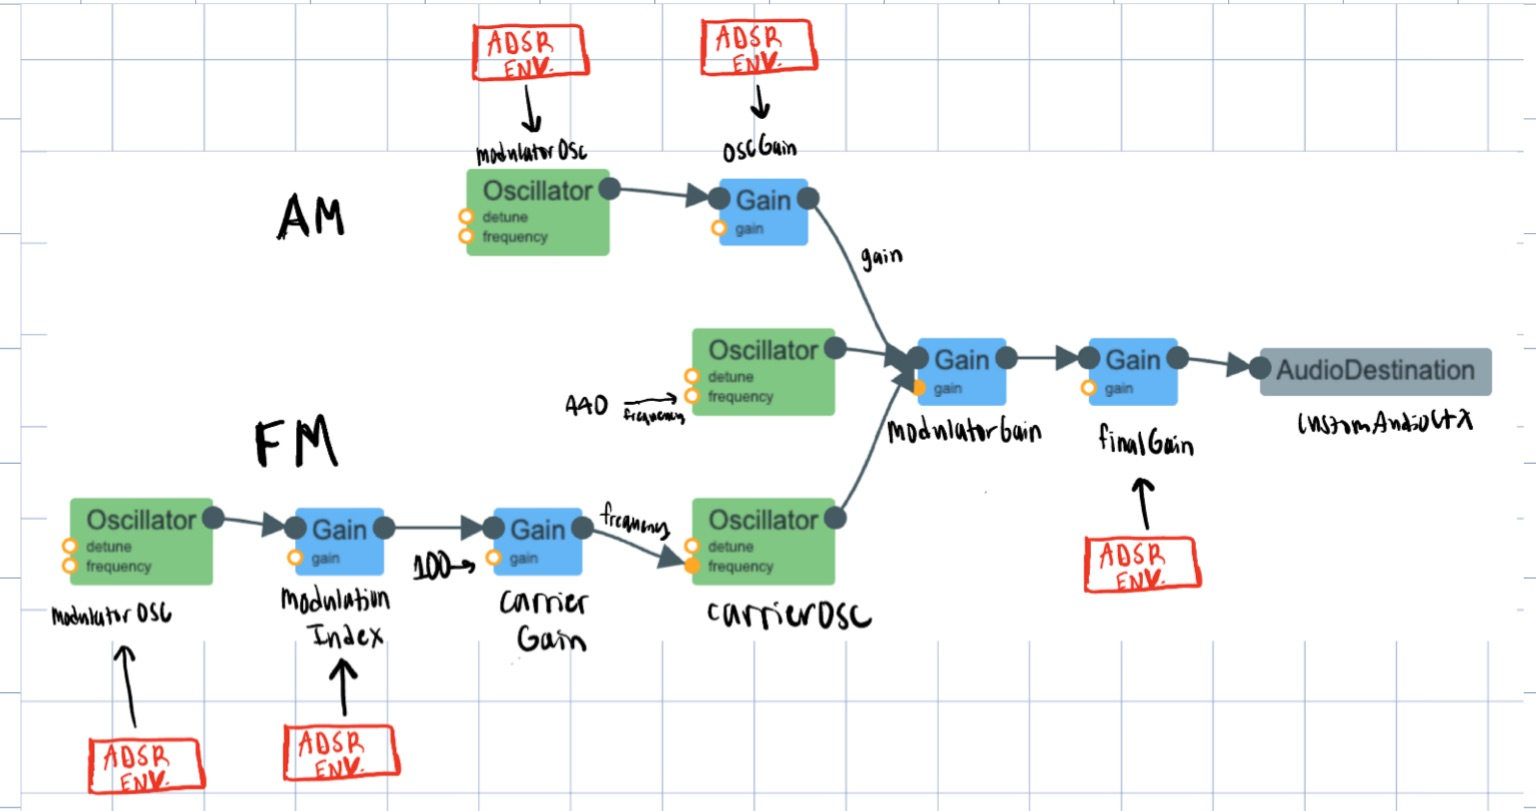
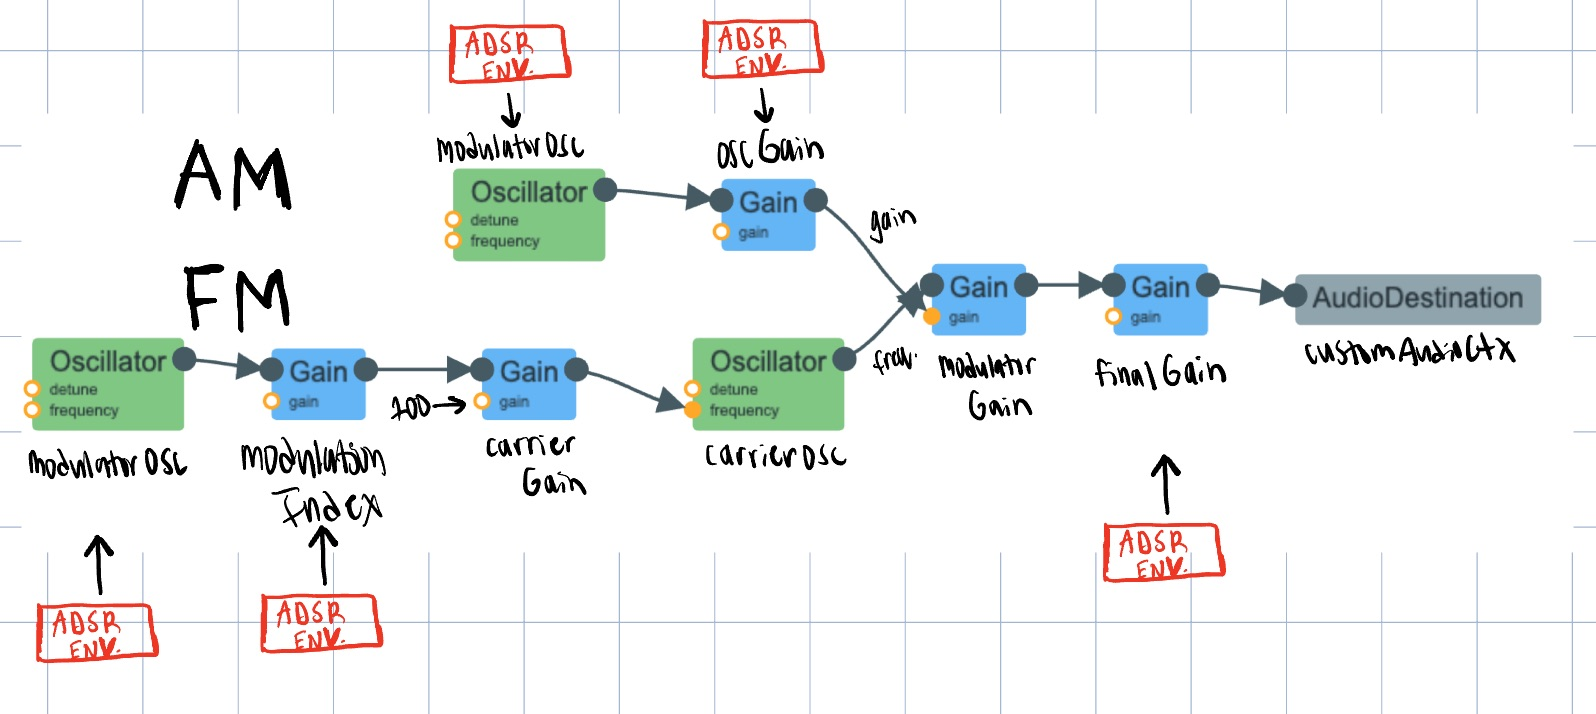
simplified FM synthesis

diff --git a/index.html b/index.html
@@ -35,9 +35,10 @@
     <p><span style="font-weight: bold;">Sound</span><br>I attempted to recreate the call of a bird, drawing inspiration from Chapter 51 of "Designing Sound" titled "Practical 28 Birds." 
       <br>This chapter provides detailed insights into the synthesis of bird calls and served as the main inspiration for my design.</p>
 
-    <p><span style="font-weight: bold";>Audio Signal Flow graph</span><br><img src="./flow_graph.png">
+    <p><span style="font-weight: bold";>Audio Signal Flow graph</span><br>The main idea for combining both the FM and AM synthesis components is to use the output of the FM synthesis object as the carrier frequency for AM synthesis.
+      <img src="./flow_graph.png">
       <br>
-      The main idea for combining both the FM and AM synthesis components is to use the output of the FM synthesis object as the carrier frequency for AM synthesis.</p>
+      </p>
 
     <p><span style="font-weight: bold;">Key Parts of the Code: </span>
       <div>
@@ -72,9 +73,8 @@
       as birds often produce calls with varying levels of amplitude to convey different messages or emotions, such as alertness, aggression, or mating calls.
       <br>
       <br>
-      ADSR Envelopes: As suggested every parameter follows a ADSR envelope, thus I added more gain nodes to help facilitate this process.
-      <br> For example, the finalGain GainNode helps control the main sound envelope and the extra gainNode in FM synthesis, carrierGain, helps create
-      a nice envelope for the carrier oscillator in FM synthesis.
+      ADSR Envelopes: Following the recommended practice, each parameter adheres to an ADSR envelope. Consequently, both the oscillators and gain nodes in both AM/FM synthesis are governed by an ADSR envelope. 
+      <br>Additionally, there is an envelope applied to the main gain node to regulate the overall output sound.
     </div>
     <br>
     <div>

diff --git a/main.js b/main.js
@@ -155,13 +155,9 @@ class FMSynthesis{
          this.modulatorOsc = customAudioCtx.createOscillator();
          // gain nodes
          this.modulationIndex = customAudioCtx.createGain();
-         this.carrierGain = customAudioCtx.createGain();
          // connect them
          this.modulatorOsc.connect(this.modulationIndex);
-         this.modulationIndex.connect(this.carrierGain);
-         this.carrierGain.connect(this.carrierOsc.frequency);
-
-         this.carrierGain.gain.value = 100;
+         this.modulationIndex.connect(this.carrierOsc.frequency);
 
     }
     start(time){
